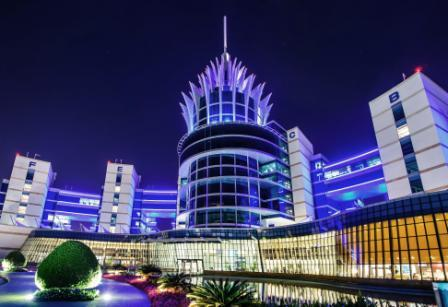
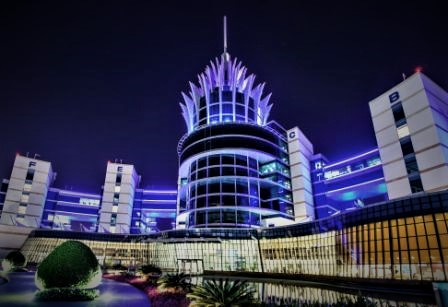
changes to button text and background is made to look more brighter

diff --git a/client/src/components/Welcome/Welcome.js b/client/src/components/Welcome/Welcome.js
@@ -40,7 +40,7 @@ class Welcome extends Component {
               <h1 className="web-name">Weather Warning System</h1>
 
               <p className="tagline">
-                Please login to view user dashboard or signup if you don't have
+                Login to view user dashboard or signup if you don't have
                 an account.
               </p>
               <div className="btn-group btn-style">
@@ -49,14 +49,14 @@ class Welcome extends Component {
                   onClick={this.onClickLogin}
                   className="btn btn-lg btn-success"
                 >
-                  Login
+                  Contractor Login
                 </button>
                 <button
                   type="button"
                   onClick={this.onClickSignup}
                   className="btn btn-lg btn-danger"
                 >
-                  Signup
+                  Contractor Signup
                 </button>
               </div>
             </div>
@@ -65,10 +65,10 @@ class Welcome extends Component {
               onClick={this.onClickAdminLogin}
               className="btn btn-sm btn-secondary btn-admin"
             >
-              S&E Officer Log In
+              DSOA Log In
             </button>
             <p className="text-danger">
-              Only use the officer login if you are a DSOA official and have the
+              DSOA login can only be used if you are a DSOA official and have the
               credentials
             </p>
           </div>

diff --git a/client/src/components/Welcome/Welcome.css b/client/src/components/Welcome/Welcome.css
@@ -18,7 +18,7 @@
   content: "";
   z-index: 0;
   position: absolute;
-  background: rgba(0, 0, 0, 0.774);
+  background: rgba(0, 0, 0, 0.680);
   width: 100%;
   height: 100%;
   left: 0;
